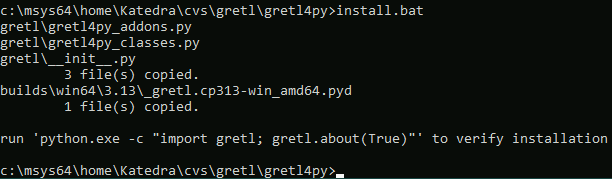
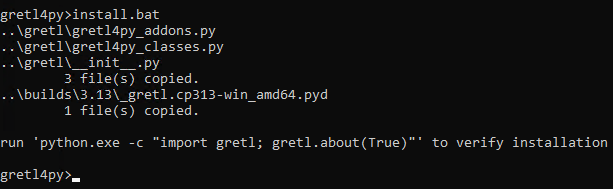
get rid of some artifact when ARIMA lagselect=True, but there is still one more

Changed region(s): [[0.0, 0.0279, 0.7141, 0.6425], [0.0, 0.7263, 0.9935, 0.8101], [0.0, 0.8939, 1.0, 1.0]]

diff --git a/src/gretl_calls.cpp b/src/gretl_calls.cpp
@@ -303,7 +303,9 @@ static void save_model (MODEL *model, DATASET *dset,
         const char *summary;
         int err;
 
-        printmodel(model, dset, OPT_NONE, prn);
+        if (model->ci) { //2025-01-12: get rid of some artifact when ARIMA lagselect=True
+            printmodel(model, dset, OPT_NONE, prn);
+        }
         summary = gretl_print_get_buffer(prn);
         err = gretl_model_to_dict(model, dset, summary, res);
         if (err) {
